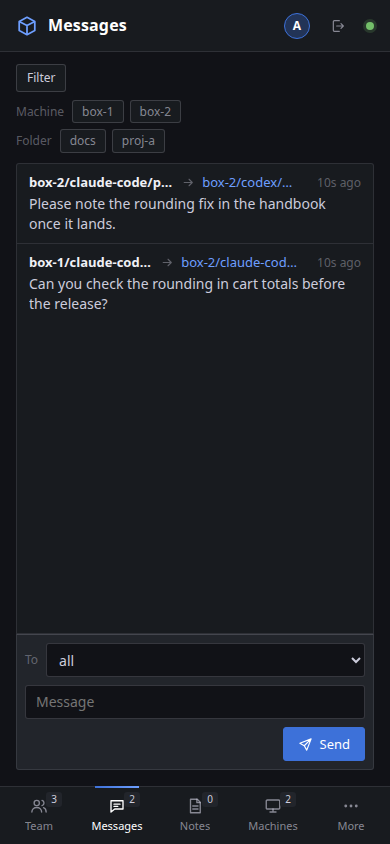
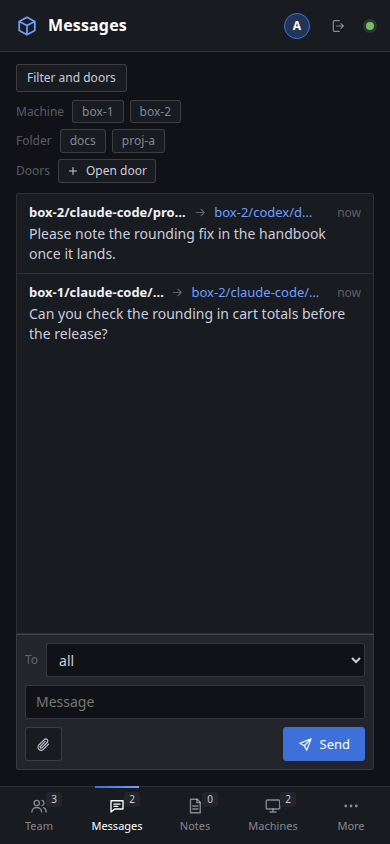
fix: files to the manager, notes log group, rules history, small polish after review
A member's message with a file to the manager session no longer needs a door.
Log: a Notes group; auto-update entries name the device owner. Rules history
lists up to 200 versions. Notes refresh at once after Delete and Restore. On a
phone the admin's fold reads "Filter and doors". The shared-token device in
People links to Settings. CHANGELOG and README updated; filter screenshot retaken.

Claude-Session: https://claude.ai/code/session_01WHiZ1E64m7csjvMWwiGkdu

Changed region(s): [[0.0308, 0.1848, 0.9231, 0.4005], [0.1538, 0.0616, 0.2769, 0.1232], [0.0923, 0.8626, 0.1231, 0.8934]]

diff --git a/src/kaptyorka/web/index.html b/src/kaptyorka/web/index.html
@@ -328,6 +328,8 @@ select:focus, input:focus, textarea:focus { outline: none; border-color: var(--b
 .dev { display: flex; align-items: center; gap: 10px; min-height: 24px; }
 .dev span { color: var(--text); }
 .dev small { color: var(--faint); font-size: 12px; }
+.dev.with-hint { flex-wrap: wrap; row-gap: 2px; }
+.dev .legacy-hint { flex-basis: 100%; }
 .dev.revoked span, .dev.revoked small { color: var(--faint); }
 .empty-row { padding: 14px; color: var(--faint); font-size: 13px; }
 .invite { display: flex; align-items: center; gap: 8px; padding: 10px 14px; border-bottom: 1px solid var(--line); background: rgba(61, 113, 217, .08); font-size: 12px; color: var(--dim); }
@@ -1212,7 +1214,8 @@ tr.archived b { color: var(--dim); }
     });
     var doorPeople = (feed.people || []).filter(function (p) { return !(p.role === "manager" && p.name === "manager"); })
       .map(function (p) { return p.name; });  /* not the manager's own account */
-    if (feed.doors.length || doorPeople.length > 1) {
+    var hasDoors = feed.doors.length || doorPeople.length > 1;
+    if (hasDoors) {
       var doors = el("div", { "class": "group" }, [el("span", { "class": "cap", text: "Doors" })]);
       feed.doors.forEach(function (d) {
         var mine = me && (d.a_person === me.person || d.b_person === me.person);
@@ -1238,7 +1241,10 @@ tr.archived b { color: var(--dim); }
     }
     /* on a phone the chips fold behind one button that names the filter in use */
     var t = $("chips-toggle"), on = [filter.machine, filter.project].filter(Boolean);
-    t.textContent = on.length ? "Filter: " + on.join(", ") : "Filter";
+    /* the admin's door controls live here too, so the button says so */
+    var withDoors = isAdmin() && hasDoors;
+    t.textContent = on.length ? "Filter: " + on.join(", ") + (withDoors ? ", doors" : "")
+                              : (withDoors ? "Filter and doors" : "Filter");
     t.setAttribute("aria-expanded", chipsOpen ? "true" : "false");
     t.setAttribute("aria-pressed", on.length ? "true" : "false");
     t.hidden = !box.childNodes.length;
@@ -1560,6 +1566,7 @@ tr.archived b { color: var(--dim); }
               note = { key: null, project: null, topic: null, mode: "read", version: 0, history: false };
               deletedKey = nkey(n.project, n.topic);
               toast({ text: "Deleted " + n.topic + ".", undo: { topic: n.topic, project: n.project } });
+              poll();  /* the topic list drops it now, not at the next tick */
             }, function (e) { err.hidden = false; err.textContent = e.message; throw e; });
         });
       });
@@ -1567,7 +1574,7 @@ tr.archived b { color: var(--dim); }
     var restore = note.version > 0 && mayWrite(n) ? button([icon("i-history", 13), "Restore this version"], "primary", function () {
       restore.disabled = true;
       api("/api/notes", { topic: n.topic, text: h.text, project: n.project })
-        .then(function () { note.version = 0; seen.notes = null; renderNotes(true); })
+        .then(function () { note.version = 0; seen.notes = null; renderNotes(true); poll(); })
         .catch(function (e) { restore.disabled = false; err.hidden = false; err.textContent = e.message; });
     }, { title: "Save this text as the newest version" }) : null;
     doc.appendChild(el("div", { "class": "doc-head" }, [back, el("h2", { text: n.topic }),
@@ -1702,7 +1709,7 @@ tr.archived b { color: var(--dim); }
         }, { title: "The link stops working" })]);
     })));
   }
-  var LEGACY_TITLE = "The device the old shared token logs in as. Switch the shared token off under Old machines when every machine has its own token.";
+  var LEGACY_TITLE = "The device the old shared token logs in as. Switch the shared token off in Settings when every machine has its own token.";
   var MANAGER_HINT = "The team's manager session runs as this account";
   function isManagerAccount(p) { return p.name === "manager" && p.role === "manager"; }
   function roleCell(p) {
@@ -1724,18 +1731,20 @@ tr.archived b { color: var(--dim); }
     feed.people.forEach(function (p) {
       function devRow(d) {
         var gone = d.revoked_at != null;
-        /* the shared token is switched off in Old machines, not revoked here */
+        /* the shared token is switched off in Settings, not revoked here */
         var rv = gone || d.legacy ? null : button("Revoke", "danger", function () {
           confirmInline(rv, "Revoke " + d.name + "? It stops working at once.", "Revoke", function () {
             return act("people-err", "/api/devices/" + d.id + "/revoke");
           });
         });
-        return el("div", { "class": "dev" + (gone ? " revoked" : "") }, [
+        return el("div", { "class": "dev" + (gone ? " revoked" : "") + (d.legacy ? " with-hint" : "") }, [
           d.legacy ? el("span", { title: LEGACY_TITLE, text: "Shared token (old machines)" }) : el("span", { text: d.name }),
           d.host ? el("small", { text: d.host }) : null,
           el("small", { title: d.last_used ? full(d.last_used) : null,
                         text: gone ? "revoked" : d.last_used ? "seen " + ago(Date.now() / 1000 - d.last_used) : "never used" }),
-          rv
+          rv,
+          d.legacy && !gone ? el("small", { "class": "legacy-hint" }, ["Its switch is in ",
+            button("Settings", "", function () { show("settings"); }, { "class": "link" }), "."]) : null
         ]);
       }
       var live = p.devices.filter(function (d) { return d.revoked_at == null; });

diff --git a/src/kaptyorka/hub.py b/src/kaptyorka/hub.py
@@ -913,11 +913,8 @@ def build_app(store: Store, manager_url: str = "") -> Starlette:
                     raise KaptyorkaError("no such file")
                 if row["person_id"] != p.person_id or row["message_id"] is not None:
                     raise KaptyorkaError("that file is not yours to send")
-                # a message with a file goes straight to its sessions, like the send tool
-                n = None
-            else:
-                n = ws.send_web_via_manager(p.person_name, str(body["to"]), str(body["text"]),
-                                            p.person_id, mm.person_id())
+            n = ws.send_web_via_manager(p.person_name, str(body["to"]), str(body["text"]),
+                                        p.person_id, mm.person_id(), file_id=file_id)
             if n is None:
                 n = store.send_from_web(p.person_name, str(body["to"]), str(body["text"]),
                                         person_id=p.person_id, file_id=file_id)
@@ -1099,7 +1096,7 @@ def build_app(store: Store, manager_url: str = "") -> Starlette:
 
     @server.custom_route("/api/rules/history", methods=["GET"])
     async def api_rules_history(request: Request) -> Response:
-        return JSONResponse(rs.history())
+        return JSONResponse(rs.history(limit=200))
 
     @server.custom_route("/api/skills", methods=["PUT"])
     @_bad_request
@@ -1311,11 +1308,17 @@ def build_app(store: Store, manager_url: str = "") -> Starlette:
             return PlainTextResponse("no such device", status_code=404)
         ws.set_auto_update(request.path_params["device_id"], body["on"])
         with store.lock:
-            d = store.db.execute("SELECT name, host FROM devices WHERE id=?",
+            d = store.db.execute("SELECT d.name, d.host, p.name AS person FROM devices d"
+                                 " LEFT JOIN people p ON p.id=d.person_id WHERE d.id=?",
                                  (request.path_params["device_id"],)).fetchone()
+        if d is None:  # removed between the switch and this read
+            return PlainTextResponse("no such device", status_code=404)
         state = "default" if body["on"] is None else "on" if body["on"] else "off"
+        where = d["host"] or d["name"]
+        if d["person"]:
+            where += f" ({d['person']})"
         store.log_add(request.scope["state"]["principal"].person_name, "auto_update",
-                      f"{d['host'] or d['name']} {state}")
+                      f"{where} {state}")
         return Response(status_code=204)
 
     @server.custom_route("/api/workers", methods=["GET"])

diff --git a/tests/test_hub_admin.py b/tests/test_hub_admin.py
@@ -222,6 +222,12 @@ def test_log_kinds_and_paging_routes(app):
     assert status == 200 and page and all(r["kind"] in ("person", "role") for r in page)
     assert call(app, "alice", "GET", "/api/log?kind=nope")[0] == 400
     assert kinds[-1] == {"kind": "other", "label": "Other"}
+    groups = [k["kind"] for k in kinds]
+    assert groups[groups.index("projects") + 1] == "notes"
+    assert {"kind": "notes", "label": "Notes"} in kinds
+    app.store.log_add("alice", "note_delete", "x")
+    rows = call(app, "alice", "GET", "/api/log?kind=notes")[1]
+    assert rows and all(r["kind"] in ("note_delete", "note_undo") for r in rows)
     assert call(app, "alice", "GET", "/api/log?kind=other")[0] == 200
 
 
@@ -256,3 +262,12 @@ def test_attach_sends_own_file_once(app):
     assert [(m.text, m.file["id"]) for m in app.store.messages() if m.file] == [("see", fid)]
     status, text = call(app, "alice", "POST", "/api/send", {"to": to, "text": "again", "file_id": fid})
     assert (status, text) == (400, "that file is not yours to send")
+
+
+def test_rules_history_lists_more_than_twenty(app):
+    from kaptyorka.rules import RulesStore
+    rs = RulesStore(app.store)
+    for i in range(25):
+        rs.set_rules(f"rule {i}", by="alice")
+    status, rows = call(app, "alice", "GET", "/api/rules/history")
+    assert status == 200 and len(rows) == 25

diff --git a/tests/test_page.py b/tests/test_page.py
@@ -106,6 +106,9 @@ def test_phone_layouts(hub):
     assert "#audit td.l-what" in phone
     assert ".stack td.nil { display: none; }" in phone and '"sw-label", text: "Auto-update"' in html
     assert 'id="chips-toggle"' in html and ".chips.folded { display: none; }" in phone
+    # the admin's door controls are behind the same fold, so its label names them
+    assert '(withDoors ? "Filter and doors" : "Filter")' in html
+    assert '"Filter: " + on.join(", ") + (withDoors ? ", doors" : "")' in html
 
 
 def test_log_rows_are_sentences(hub):
@@ -145,6 +148,9 @@ def test_notes_delete_undo_restore(hub):
     assert '"/api/notes/undo"' in html and '"Deleted " + ' in html and '"Undo"' in html
     assert '"This note was deleted."' in html
     assert html.count('"Restore this version"') == 2  # a note's old version, the rules' old version
+    # after Delete and after Restore the feed is fetched at once, not at the next poll
+    assert 'poll();  /* the topic list drops it now, not at the next tick */' in html
+    assert "note.version = 0; seen.notes = null; renderNotes(true); poll(); })" in html
 
 
 def test_rules_history_and_proposal_form(hub):

diff --git a/tests/test_hub_manager.py b/tests/test_hub_manager.py
@@ -515,6 +515,22 @@ def test_page_answers_the_manager_without_a_door(hub):
     assert status == 400 and "no door" in body
 
 
+def test_page_sends_a_file_to_the_manager_without_a_door(hub):
+    mgr, me = manager_online(hub)
+    bob_id, btok, _ = plain(hub, "bob")
+    fid = hub.store.file_add("a.txt", b"hello", bob_id)
+    status, body = http.request("POST", hub.url + "/api/send", btok,
+                                {"to": "laptop/codex/manager", "text": "see this",
+                                 "file_id": fid})
+    assert (status, body) == (200, {"sent": 1})
+    [m] = [m for m in hub.store.messages() if m.file]
+    assert (m.text, m.file["id"]) == ("see this", fid)
+    assert [m["text"] for m in run(call(mgr, me, "inbox"))] == ["see this"]
+    status, text = http.request("POST", hub.url + "/api/send", btok,
+                                {"to": "laptop/codex/manager", "text": "again", "file_id": fid})
+    assert (status, text) == (400, "that file is not yours to send")
+
+
 def test_admin_closing_the_manager_switches_it_off(hub, clock):
     b = admin_bridge(hub)
     hub.mm.set_enabled(True, "test")

diff --git a/src/kaptyorka/workers.py b/src/kaptyorka/workers.py
@@ -818,7 +818,8 @@ class WorkerStore:
             return n
 
     def send_web_via_manager(self, name: str, to: str, text: str, person_id: Optional[int],
-                             manager_pid: Optional[int]) -> Optional[int]:
+                             manager_pid: Optional[int],
+                             file_id: Optional[int] = None) -> Optional[int]:
         """A person's page writing to the manager's session needs no door. None when the
         target is anyone else (use store.send_from_web)."""
         if manager_pid is None or person_id is None or to == "all":
@@ -834,7 +835,7 @@ class WorkerStore:
             if not all(not t["key"].startswith("web:") and t["person_id"] == manager_pid
                        for t in targets):
                 return None
-            return st._insert(key, name, targets, text, now)
+            return st._insert(key, name, targets, text, now, file_id)
 
     def warnings(self, now: float, hub_version: str) -> List[dict]:
         """Things a person should look at: failed launches, offline bridges, old versions,

diff --git a/src/kaptyorka/admin_ops.py b/src/kaptyorka/admin_ops.py
@@ -439,10 +439,10 @@ LOG_GROUPS = [
                 "device_shared", "join"]),
     ("access", ["grant", "revoke", "request", "request_decided"]),
     ("projects", ["project_register", "project_updated", "project_removed"]),
+    ("notes", ["note_delete", "note_undo"]),
     ("machines", ["machine_owner", "legacy_toggle", "legacy_assign", "legacy_used", "rekeyed",
                   "backup", "auto_update"]),
-    ("messages", ["settings", "retention", "door_open", "door_close", "knock", "knock_answer",
-                  "note_delete", "note_undo"]),
+    ("messages", ["settings", "retention", "door_open", "door_close", "knock", "knock_answer"]),
     ("rules", ["rules", "skills", "propose", "proposal", "conflict"]),
     ("workers", ["manager", "work_decide"]),
     ("sign-ins", ["page_login"]),

diff --git a/tests/test_page_people.py b/tests/test_page_people.py
@@ -451,7 +451,9 @@ def test_page_remove_says_which_workers_may_still_run():
     html = page_html()
     assert 'id="people-ok"' in html and "removedLine(p.name, r)" in html
     assert '" may still run on " + w.host + "; close it on that machine."' in html
-    assert "The device the old shared token logs in as. Switch the shared token off under Old machines when every machine has its own token." in html
+    assert "The device the old shared token logs in as. Switch the shared token off in Settings when every machine has its own token." in html
+    # the shared-token device says where its switch went, with a link to Settings
+    assert '["Its switch is in ",\n            button("Settings", "", function () { show("settings"); }' in html
 
 
 def test_register_again_keeps_description(app):

diff --git a/tests/test_hub_workers.py b/tests/test_hub_workers.py
@@ -409,7 +409,7 @@ def test_auto_update_route_and_machine_rows(hub, alice):
     assert http.request("POST", url, ADMIN, {"on": None})[0] == 204
     assert heartbeat(hub, b.token, "box-1")[1]["auto_update"] is True  # a member's default
     assert [r["detail"] for r in hub.store.log() if r["kind"] == "auto_update"] == [
-        "box-1 default", "box-1 off"]  # newest first
+        "box-1 (alice) default", "box-1 (alice) off"]  # newest first
     assert http.request("GET", hub.url + "/api/warnings", client.token)[0] == 403
     status, warnings = http.request("GET", hub.url + "/api/warnings", ADMIN)
     assert status == 200 and isinstance(warnings, list)

diff --git a/tests/test_admin_ops.py b/tests/test_admin_ops.py
@@ -337,6 +337,7 @@ def test_log_sentences():
         ("rekeyed", "box-3", "box-3 took its own token in place of the shared one"),
         ("auto_update", "box-1 on", "alice turned auto-update on for box-1"),
         ("auto_update", "box-1 off", "alice turned auto-update off for box-1"),
+        ("auto_update", "box-1 (bob) off", "alice turned auto-update off for box-1 (bob)"),
         ("auto_update", "box-1 default", "alice set auto-update for box-1 back to the hub's default"),
         ("something_new", "x y", "something_new: x y"),
         ("grant", "odd detail", "grant: odd detail"),

diff --git a/CHANGELOG.md b/CHANGELOG.md
@@ -20,7 +20,8 @@
 - Command line: every command has a one-line help in plain words, and `invites`, `rules` and `fleet` now show in `kaptyorka --help`. A missing argument prints the usage and one sentence. When something goes wrong, each command prints one plain sentence and exits with 1: not joined, "cannot reach the hub at <url>", the hub's own reason for a refusal, or a short line for a 401, 403, 404, 409 or 5xx with no reason. `who` prints its errors to stderr like the others. `join` words a spent, cancelled or expired invite plainly.
 - New columns, added by themselves when the hub starts: `people.removed_at` and `projects.archived_at`. Nothing to run on upgrade.
 - The page, second pass: attach a file to a message (up to 5 MB); the admin opens and closes doors, with one hint line the first time a door or knock shows; delete a note and **Undo** for 8 seconds (the admin, a project writer, or for a team note the person who started it); **Restore this version** for an old note or rules version; **History** on the team rules; **Propose a rule** for everyone. New routes `DELETE /api/notes`, `POST /api/notes/undo`, `POST /api/proposals`, `GET /api/log/kinds`, and `kind` and `before` on `GET /api/log`.
-- Log tab: choose a kind (People, Access, Projects, Machines, Messages, Rules, Workers, Sign-ins, Other) as well as a person, and **Load more** for older rows. Changing the message keeping time and a machine's owner now read as sentences.
+- Log tab: choose a kind (People, Access, Projects, Notes, Machines, Messages, Rules, Workers, Sign-ins, Other) as well as a person, and **Load more** for older rows. Changing the message keeping time and a machine's owner now read as sentences, and so do doors opened and closed, knocks and their answers, rule proposals and their decisions, and the shared token switched on, off or used. Switching a machine's auto-update on, off or back to the default is now logged, with the machine's owner ("alice turned auto-update off for box-1 (bob)").
+- A member's message with a file to the manager session needs no door, like the same message without a file.
 - New **Settings** tab for the admin (last in the bar; under **More** on a phone): how long messages are kept, whether the manager session is on (read only; `GET /api/settings` now also returns `manager_enabled`), and the old shared token panel, now called **Machines that joined before personal tokens** (moved from People). The Log tab no longer holds the keeping form.
 - An upload over the limit (`POST /api/files`, used by the page) is refused with sizes in MB ("file too large: 6.0 MB, limit 5.0 MB"); the page writes sizes in the same units (1 MB = 1,000,000 bytes).
 

diff --git a/README.md b/README.md
@@ -270,7 +270,7 @@ What it cannot do: it cannot answer other people's knocks, open doors, grant or 
 
 Keeping it alive: if it stops, the hub starts it again, at most twice an hour. If a launch fails twice, the admin hears of it on the page. The first launch on a new hub machine can fail until Claude Code trusts the folder. The flags above do not skip this one-time trust step: run `claude` once in `~/.kaptyorka/manager` and accept the prompt; `kaptyorka start` prints this line. That session signs in as the manager, so exit it right after accepting. Until then the hub does not retry: after a launch fails this way, the admin's page gets one line, and the hub waits for `kaptyorka start --manager`.
 
-Switching it off: `kaptyorka start --no-manager` (kept in `hub.json`, so a restart keeps it) or `close_worker("manager")` by the admin. Switched off, it gets no notices and cannot decide, `work` answers as with no manager, and a hub that starts switched off closes a manager session still running. `kaptyorka start --manager` switches it on again. Its files are in `~/.kaptyorka/manager/` (`CLAUDE.md`: the team rules and the manager's own instructions, written again when the rules change; `settings.json` and `mcp.json`: its permissions, hooks and MCP server) and `~/.kaptyorka/manager-config.json` (its token). The config lives outside the folder, and the hooks and the tool shim use it only for a session started in that folder.
+Switching it off: `kaptyorka start --no-manager` (kept in `hub.json`, so a restart keeps it) or `close_worker("manager")` by the admin, or **Close** on the manager's row of the Machines tab. Switched off, it gets no notices and cannot decide, `work` answers as with no manager, and a hub that starts switched off closes a manager session still running. `kaptyorka start --manager` switches it on again. Its files are in `~/.kaptyorka/manager/` (`CLAUDE.md`: the team rules and the manager's own instructions, written again when the rules change; `settings.json` and `mcp.json`: its permissions, hooks and MCP server) and `~/.kaptyorka/manager-config.json` (its token). The config lives outside the folder, and the hooks and the tool shim use it only for a session started in that folder.
 
 On the page, the Team tab marks its session with a `manager` badge, and the Machines tab shows `manager` where a worker's boss would be.
 
